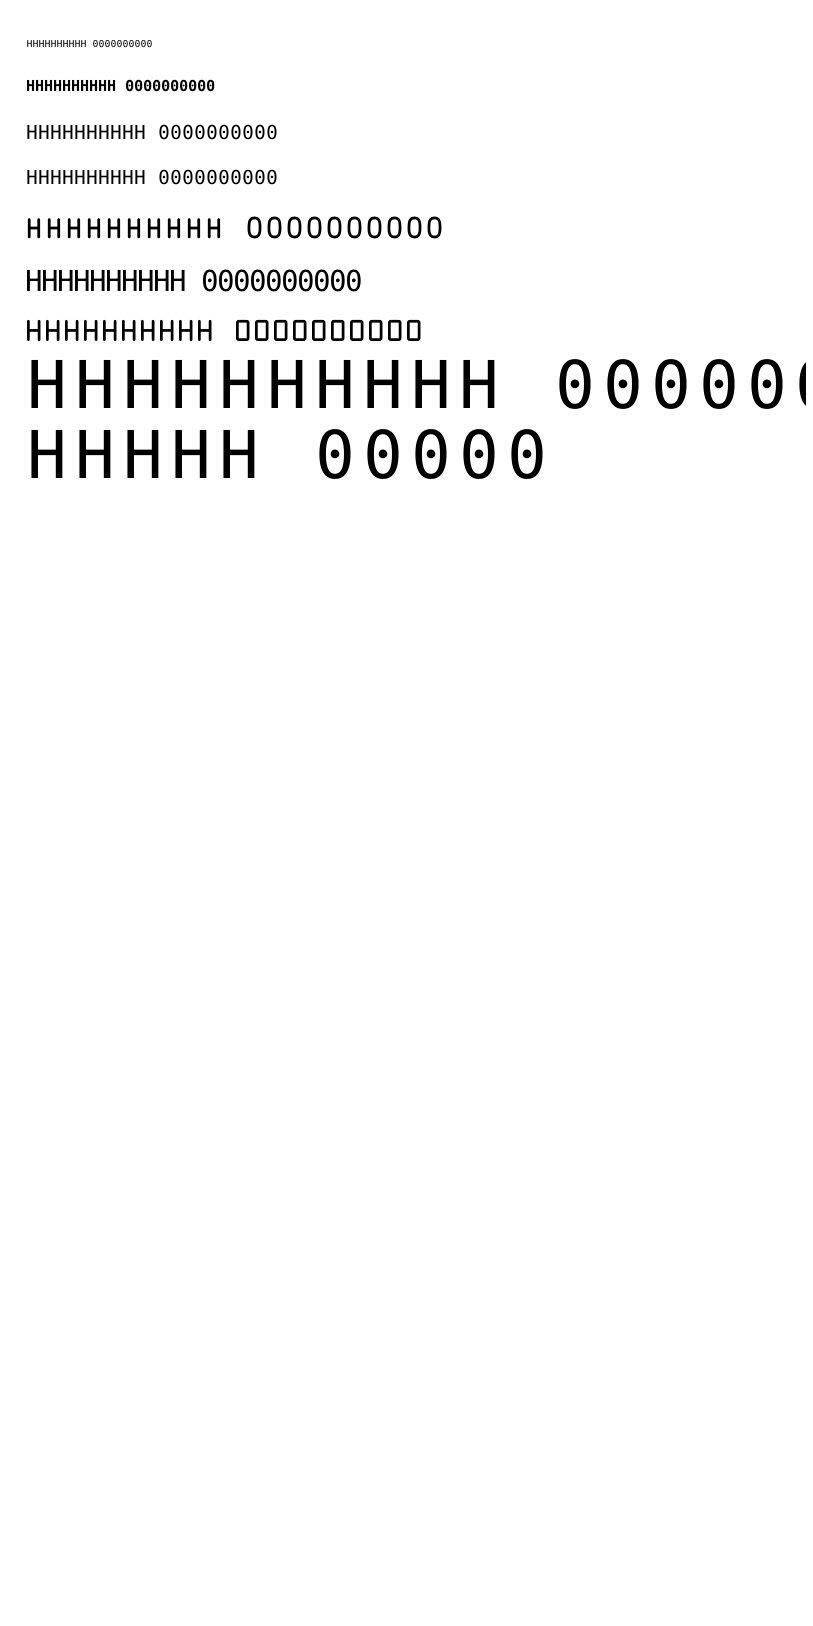
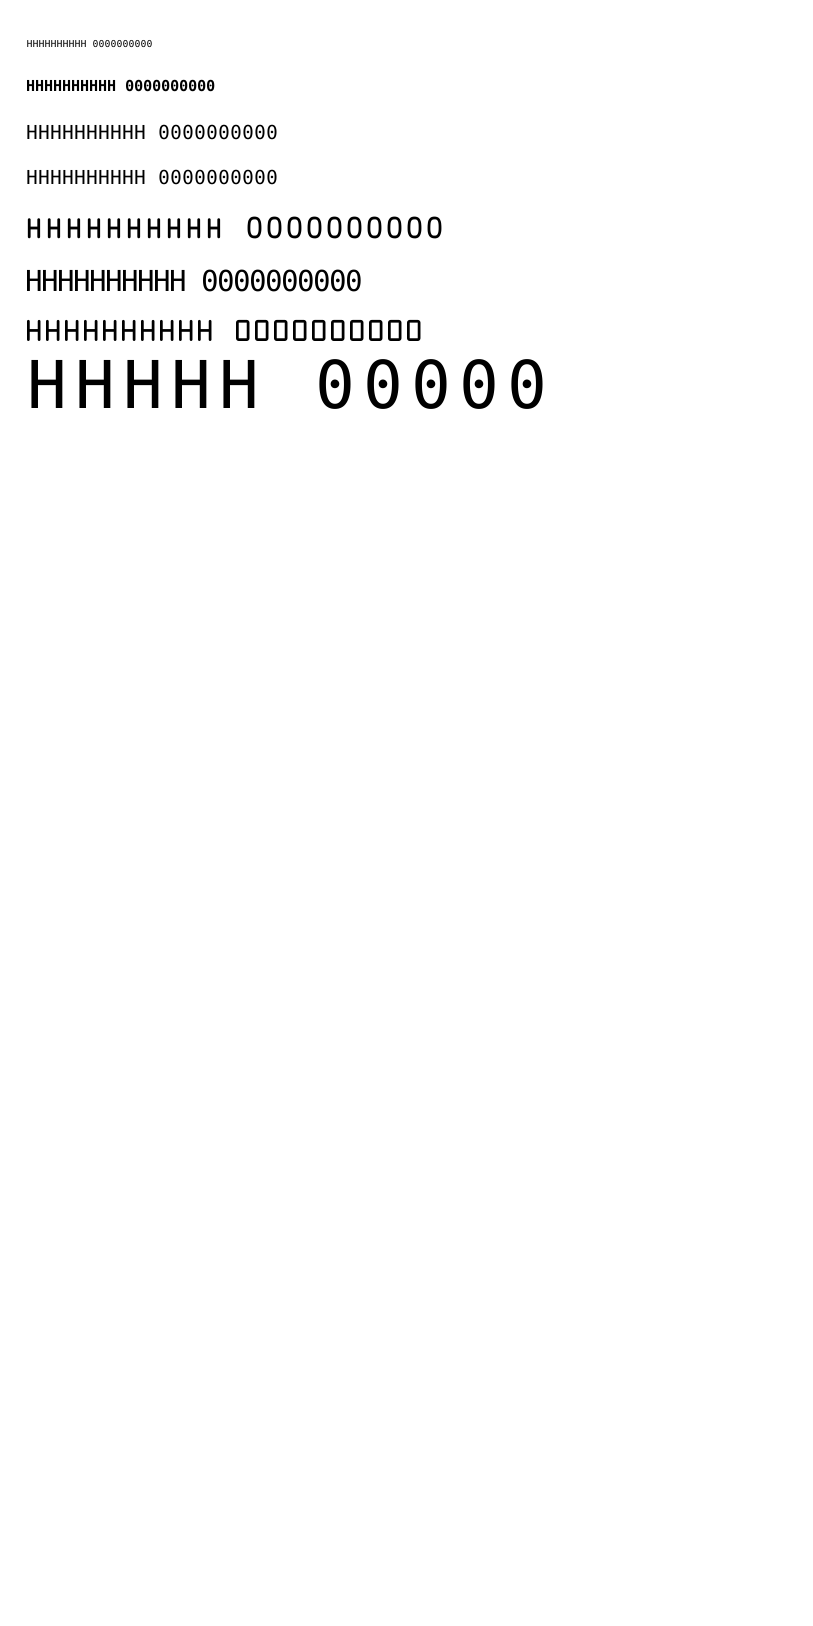
fix(render): exempt the GS face from zero de-dotting; drop bogus ^AGSN fixture row
The bitmap_font_advance fixture used ^AGSN expecting the GS font, but ^A
takes single-char names: the parser reads font 'G' and swallows 'S' as a
broken height param, while Labelary resolves 'GS' to its real GS face
(dotted zero, 48-dot advance). That row therefore compared font G against
the GS reference and, after the de-dotting change, erased the reference's
legitimate zero dot (1px flagged in the per-label zero audit).

- Remove the ^AGSN row: font G already has its own ^AGN row; fixture now
  covers exactly fonts A-H (1.70% -> 1.34% vs Labelary).
- Keep GS exempt from zero de-dotting in draw_text: the dedicated ZplGS
  face's dotted zero matches Labelary whenever a 'GS' font name does
  reach the text path (e.g. via ^CW aliasing).

Per-label zero audit (old vs new renders, 15 labels with changed diff
artifacts): every removed ink island is an enclosed zero dot, zero added
islands anywhere. golden 132/132 green.

Changed region(s): [[0.0308, 0.2153, 1.0, 0.3075]]

diff --git a/src/drawers/renderer.rs b/src/drawers/renderer.rs
@@ -247,7 +247,10 @@ impl Renderer {
         let subst = SubstMetrics {
             f0,
             adv_mult: crate::tuning::bitmap_advance_mult(&text.font.name) as f32,
-            dedot_zero: is_bitmap,
+            // GS keeps its own dotted zero: it renders through the dedicated
+            // ZplGS face whose interior dot matches Labelary; only the DejaVu
+            // A-H substitutes carry a dot Zebra never drew.
+            dedot_zero: is_bitmap && text.font.name != "GS",
         };
         // Font B cap height measured on Labelary: ~11.5 dots per magnification for an 11-dot
         // cell (caps overshoot the nominal cell), where DejaVu Mono Bold caps land at ~0.657 of

diff --git a/docs/DIFF_THRESHOLDS.md b/docs/DIFF_THRESHOLDS.md
@@ -150,7 +150,7 @@ informational.
 | text_fallback_default | zpl | 2.05 | 2.5 | Font metrics (font-1 ^A1 mono substitute; was 2.84 before the font-1 model) |
 | dein_ticket_packliste | zpl | 1.23 | 1.5 | Real German packing-list fragment: font-1 ^FB L/J text + font 0; residual is the 1-bit vs Labelary AA edge floor (~0.96% measured by binarizing the reference) |
 | fb_bitmap_line_pitch | zpl | 2.11 | 2.4 | Multi-line ^FB in bitmap fonts A/C/D/E/F; line positions and per-font cell advances match Labelary, residual is substitute-face glyph shapes/ink width (pitch pinned by a unit test; was 2.73 before advance calibration + zero de-dotting) |
-| bitmap_font_advance | zpl | 1.70 | 2.2 | A-H + GS `HHHHHHHHHH 0000000000` rows at 1x: pins the per-font cell advance (C=12, E=20, F=16, G=48, H=19 dots) and the clean (dotless) zero; residual is substitute glyph shape |
+| bitmap_font_advance | zpl | 1.34 | 1.8 | A-H `HHHHHHHHHH 0000000000` rows at 1x: pins the per-font cell advance (C=12, E=20, F=16, G=48, H=19 dots) and the clean (dotless) zero; residual is substitute glyph shape |
 | text_fo_b | zpl | 0.05 | 1.0 | Sub-pixel |
 | text_fo_i | zpl | 0.05 | 1.0 | Sub-pixel |
 | text_fo_n | zpl | 0.02 | 1.0 | Sub-pixel |
